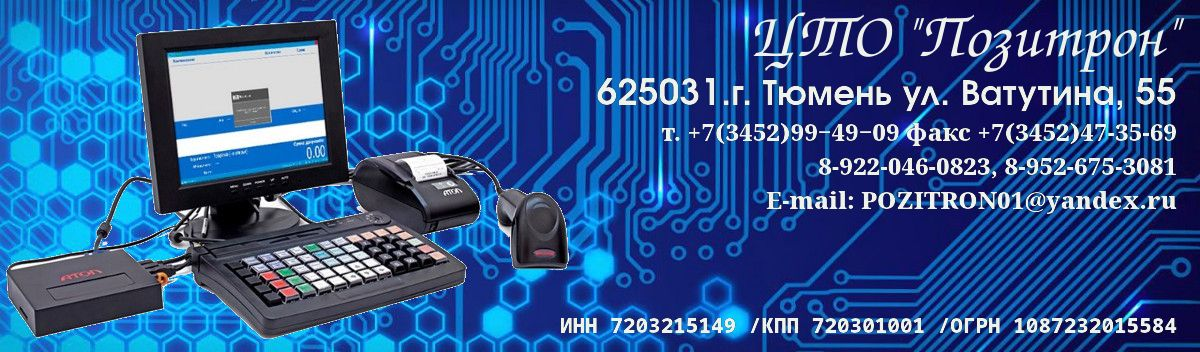
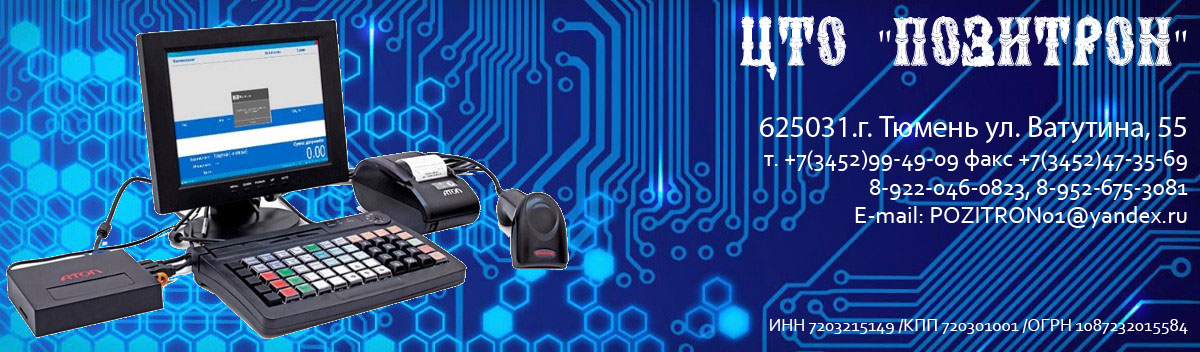
Upload

diff --git a/index.html b/index.html
@@ -33,7 +33,7 @@ ul.nav a { zoom: 1; }
       </div>
     </div>
 
-  <img src="image/ctopozitron.jpg" alt="ЦТО &quot;Позитрон&quot;" name="Insert_logo" width="100%" height="100%" usemap="#Insert_logoMap" id="Insert_logo" style="background: #6F7D94; display:block; color: #000;" />
+  <img src="image/ctopozitron03.jpg" alt="ЦТО &quot;Позитрон&quot;" name="Insert_logo" width="100%" height="100%" usemap="#Insert_logoMap" id="Insert_logo" style="background: #6F7D94; display:block; color: #000;" />
       <map name="Insert_logoMap">
         <area shape="circle" coords="0,0,0" href="index.html">
     </map>
@@ -153,20 +153,27 @@ document.querySelector('#calendar3').onchange = function Kalendar3() {
 	<div class="content" id="content1">
 	<div id="TabbedPanels1" class="TabbedPanels">
 		<ul class="TabbedPanelsTabGroup">
-			<li class="TabbedPanelsTab" tabindex="0">Прайс</li>
+			<li class="TabbedPanelsTab" tabindex="0">Главная</li>
 			<li class="TabbedPanelsTab" tabindex="0">Меркурий</li>
 			<li class="TabbedPanelsTab" tabindex="0">ЭВОТОР</li>
 			<li class="TabbedPanelsTab" tabindex="0">АТОЛ</li>
 			<li class="TabbedPanelsTab" tabindex="0">Пионер</li>
 			<li class="TabbedPanelsTab" tabindex="0">Разное</li>
 			<li class="TabbedPanelsTab" tabindex="0">Услуги</li>
-			<li class="TabbedPanelsTab" tabindex="0">На карте</li>
+			<li class="TabbedPanelsTab" tabindex="0">Контакты</li>
 </ul>
 	<div class="TabbedPanelsContentGroup">
 	<div class="TabbedPanelsContent">
-	
+<p>&nbsp;</p>
+        <h4>Кассовые аппараты он-лайн.
+        <br>Чекопечатающие машинки. <br>Обслуживание. Замена фискальных накопителей.
+        <br>Консультации обучение кассиров, регистрация, перерегистрация в налоговой инспекции.</h4>
+<p>&nbsp;</p>
+			<img src="image/evotor-5-0001-380x380.jpg" width="150" height="150" alt="Смарт-терминал ЭВОТОР 5" longdesc="Смарт-терминал ЭВОТОР 5" title="ЭВОТОР 5">
+			<img src="image/evotor-7.3_380x380.jpg" width="150" height="150" alt="ЭВОТОР 7.3 " longdesc="ЭВОТОР 7.3 " title="ЭВОТОР 7.3">
+
 	    <table width="100%" cellpadding="2" border="1">
-    <tbody>
+	    <tbody>
     <tr>
     <td style="text-align: center;" colspan="2"><strong>ЭВОТОР</strong></td>
     </tr>
@@ -205,6 +212,12 @@ document.querySelector('#calendar3').onchange = function Kalendar3() {
     <td>Эвотор 7.3 Алко с ФН 13 месяцев</td>
     <td align="center">37500р.</td>
     </tr>
+    </tbody>
+  </table>
+    <img src="image/atoll_90f.jpg" width="150" height="150" alt="АТОЛ 90Ф" longdesc="АТОЛ 90Ф" title="АТОЛ 90Ф">
+    <img src="image/atoll_30f.jpg" width="150" height="150" alt="АТОЛ 30Ф" title="АТОЛ 30Ф">
+    <table width="100%" cellpadding="2" border="1">
+    <tbody>
     <tr>
     <td style="text-align: center;" colspan="2"><strong>АТОЛ</strong></td>
     </tr>
@@ -231,6 +244,12 @@ document.querySelector('#calendar3').onchange = function Kalendar3() {
     <td align="center">35000/39900р.</td>
     </tr>
     <tr>
+    </tbody>
+  </table>
+  			<img src="image/mercury_115f.jpg" width="150" height="150" alt="Меркурий 115Ф" longdesc="Меркурий 115Ф" title="Меркурий 115Ф">
+  			<img src="image/mercury_185f.jpg" width="150" height="150" alt="Меркурий 185Ф" longdesc="Меркурий 185Ф" title="Меркурий 185Ф">
+  <table width="100%" cellpadding="2" border="1">
+    <tbody>
     <td style="text-align: center;" colspan="2"><strong>Меркурий</strong></td>
     </tr>
     <tr>
@@ -247,6 +266,13 @@ document.querySelector('#calendar3').onchange = function Kalendar3() {
     <td align="center">20500/25900р.</td>
     </tr>
     <tr>
+    </tbody>
+  </table>
+				<img src="image/SHTRICH-LIGT-01F.jpg" width="150" height="150" alt="">
+				<img src="image/SHTRICH-M-01F.jpg" width="150" height="150" alt="">
+				<img src="image/SHTRICH-ON-Line.jpg" width="150" height="150" alt="">
+  <table width="100%" cellpadding="2" border="1">
+    <tbody>
     <td style="text-align: center;" colspan="2"><strong>ШТРИХ-М</strong></td>
     </tr>
     <tr>
@@ -260,6 +286,12 @@ document.querySelector('#calendar3').onchange = function Kalendar3() {
     <td align="center">28000/33000р.</td>
     </tr>
     <tr>
+    </tbody>
+  </table>
+  <img src="image/pioneer-114f.jpg" width="150" height="150" alt="Пионер-114Ф " longdesc="Пионер-114Ф " title="Пионер-114Ф">
+
+  <table width="100%" cellpadding="2" border="1">
+    <tbody>
     <td style="text-align: center;" colspan="2"><strong>Пионер</strong></td>
     </tr>
     <tr>
@@ -267,11 +299,11 @@ document.querySelector('#calendar3').onchange = function Kalendar3() {
     <td align="center">17200/23000р.</td>
     </tr>
   </tbody>
-  </table>  
-  
+  </table>
+
   <p>&nbsp;</p>
-	
-	
+
+
 	</div>
 	<div class="TabbedPanelsContent">
 		<table width=100%>
@@ -279,8 +311,8 @@ document.querySelector('#calendar3').onchange = function Kalendar3() {
 			<h3>ККТ Меркурий 115Ф<br>с ФН 13/36 месяцев 12900/15900р.</h3>
 		<td width=50%>
 			<h3>ККТ Меркурий 185ф<br>с ФН 13/36 месяцев 14000/17900р.</h3></table>
-			<img src="image/меркурий115ф.jpg" alt="Меркурий 115Ф" align="left" width="50%" height="50%" title="Меркурий 115Ф" style="background: #6F7D94; display:block; color: #000;"  />
-			<img src="image/меркурий_185ф.jpg" alt="Меркурий 185Ф" align="right" width="50%" height="50%" title="Меркурий 185ф" style="background: #6F7D94; display:block; color: #000;" />
+			<img src="image/mercury_115f.jpg" alt="Меркурий 115Ф" align="left" width="50%" height="50%" title="Меркурий 115Ф" style="background: #6F7D94; display:block; color: #000;"  />
+			<img src="image/mercury_185f.jpg" alt="Меркурий 185Ф" align="right" width="50%" height="50%" title="Меркурий 185ф" style="background: #6F7D94; display:block; color: #000;" />
 
       <table width="100%" cellpadding="2" border="1">
       <tbody>
@@ -395,7 +427,7 @@ document.querySelector('#calendar3').onchange = function Kalendar3() {
 		<td width=50%>
 			<h3>ЭВОТОР 7.3 Алко с ФН 13 месяцев 37500р.<br>ЭВОТОР 7.3 Алко ЕНВД 31500р. </h3></table>
 			<img src="image/evotor-5-0001-380x380.jpg" alt="Смарт-терминал ЭВОТОР 5" align="left" width="50%" height="50%" title="Смарт-терминал ЭВОТОР 5" style="background: #6F7D94; display:block; color: #000;"  />
-			<img src="image/Эвотор 7.3_380x380.jpg" alt="ЭВОТОР 7.3" align="left" width="50%" height="50%" title="ЭВОТОР 7.3" style="background: #6F7D94; display:block; color: #000;"  />
+			<img src="image/evotor-7.3_380x380.jpg" alt="ЭВОТОР 7.3" align="left" width="50%" height="50%" title="ЭВОТОР 7.3" style="background: #6F7D94; display:block; color: #000;"  />
 	<table width="100%" cellpadding="2" border="1">
       <tbody>
       <tr>
@@ -478,8 +510,8 @@ document.querySelector('#calendar3').onchange = function Kalendar3() {
 			<h3>АТОЛ 90Ф с ФН 13/36 месяцев 18000/23500р.</h3>
 		<td width=50%>
 			<h3>АТОЛ 30Ф с ФН 13/36 месяцев 16400/19500р.</h3></table>
-			<img src="image/атол_90ф.jpg" alt="АТОЛ 90Ф" align="left" width="50%" height="50%" title="АТОЛ 90Ф" style="background: #6F7D94; display:block; color: #000;"  />
-			<img src="image/АТОЛ 30Ф.jpg" alt="АТОЛ 30Ф" align="left" width="50%" height="50%" title="АТОЛ 30Ф" style="background: #6F7D94; display:block; color: #000;"  />
+			<img src="image/atoll_90f.jpg" alt="АТОЛ 90Ф" align="left" width="50%" height="50%" title="АТОЛ 90Ф" style="background: #6F7D94; display:block; color: #000;"  />
+			<img src="image/atoll_30f.jpg" alt="АТОЛ 30Ф" align="left" width="50%" height="50%" title="АТОЛ 30Ф" style="background: #6F7D94; display:block; color: #000;"  />
 <table width="100%" cellpadding="2" border="1">
       <tbody>
       <tr>
@@ -543,8 +575,8 @@ document.querySelector('#calendar3').onchange = function Kalendar3() {
 
 </div>
 <div class="TabbedPanelsContent"> <h3>Пионер-114Ф с ФН 13/36 месяцев 17200/23000р.</h3>
-    <img src="image/ККМ Пионер-114Ф.jpg" alt="Пионер-114Ф" align="left" width="50%" height="50%" title="Пионер-114Ф" style="background: #6F7D94; display:block; color: #000;"  />
-  
+    <img src="image/pioneer-114f.jpg" alt="Пионер-114Ф" align="left" width="50%" height="50%" title="Пионер-114Ф" style="background: #6F7D94; display:block; color: #000;"  />
+
   <table width="50%" cellpadding="2" border="1">
       <tbody>
       <tr>
@@ -574,10 +606,10 @@ document.querySelector('#calendar3').onchange = function Kalendar3() {
       <td align="center">Есть</td>
 		</tbody>
       </table>
-  
+
   </div>
 
-	<div class="TabbedPanelsContent"> 
+	<div class="TabbedPanelsContent">
 		<table width=100%>
 		<tr><td width=40%>
 			<h3>Сканеры</h3>
@@ -586,9 +618,9 @@ document.querySelector('#calendar3').onchange = function Kalendar3() {
 			<td width=30%>
 			<h3>Денежные ящики</h3>
 		</table>
-			<img src="image/Сканер_0.jpg" alt="Сканер" align="left" width="33%" height="33%" title="Сканер" style="background: #6F7D94; display:block; color: #000;"  />
-			<img src="image/чековая лента 57,5 мм.jpg" alt="Чековая лента 57,5 мм" align="left" width="33%" height="33%" title="Чековая лента 57,5 мм" style="background: #6F7D94; display:block; color: #000;"  />
-			<img src="image/меркурий 100-1.jpg" alt="Меркурий 100-1" align="left" width="33%" height="33%" title="Меркурий 100-1" style="background: #6F7D94; display:block; color: #000;"  />
+			<img src="image/scanner.jpg" alt="Сканер" align="left" width="33%" height="33%" title="Сканер" style="background: #6F7D94; display:block; color: #000;"  />
+			<img src="image/check tape 57,5 mm.jpg" alt="Чековая лента 57,5 мм" align="left" width="33%" height="33%" title="Чековая лента 57,5 мм" style="background: #6F7D94; display:block; color: #000;"  />
+			<img src="image/mercury_100-1.jpg" alt="Меркурий 100-1" align="left" width="33%" height="33%" title="Меркурий 100-1" style="background: #6F7D94; display:block; color: #000;"  />
 </div>
 	<div class="TabbedPanelsContent">
     <table width="100%" cellpadding="2" border="1">
@@ -623,32 +655,33 @@ document.querySelector('#calendar3').onchange = function Kalendar3() {
     <td align="center">1000р.</td>
     </tr>
   </tbody>
-  </table>	
+  </table>
 </div>
-	<div class="TabbedPanelsContent"> <h2>На карте</h2>
+	<div class="TabbedPanelsContent">
+    <p>&nbsp;</p>
+    <h4>625031.г. Тюмень ул. Ватутина, 55
+      <br>т. +7(3452) 99-49-09
+      <br>факс +7(3452) 47-35-69
+      <br>8-922-046-0823, 8-952-675-3081
+        <br>E-mail: <a href="mailto:pozitron01@yandex.ru"><span style="color:navy">pozitron01@yandex.ru</span></a><h4>
 			<a class="dg-widget-link" href="http://2gis.ru/tyumen/firm/1830115629690603/center/65.58747768402101,57.18826242510559/zoom/16?utm_medium=widget-source&utm_campaign=firmsonmap&utm_source=bigMap">Посмотреть на карте Тюмени</a><div class="dg-widget-link"><a href="http://2gis.ru/tyumen/center/65.587965,57.187168/zoom/16/routeTab/rsType/bus/to/65.587965,57.187168╎Позитрон, ООО, торгово-сервисная компания?utm_medium=widget-source&utm_campaign=firmsonmap&utm_source=route">Найти проезд до Позитрон, ООО, торгово-сервисная компания</a></div><script charset="utf-8" src="https://widgets.2gis.com/js/DGWidgetLoader.js"></script><script charset="utf-8">new DGWidgetLoader({"width":700,"height":450,"borderColor":"#a3a3a3","pos":{"lat":57.18826242510559,"lon":65.58747768402101,"zoom":16},"opt":{"city":"tyumen"},"org":[{"id":"1830115629690603"}]});</script><noscript style="color:#c00;font-size:16px;font-weight:bold;">Виджет карты использует JavaScript. Включите его в настройках вашего браузера.</noscript>
+
+			</div>
+		</div>
+	</div>
 </div>
-              <!--[if !IE]>-->
-            </object>
-            <!--<![endif]-->
-          </object>
-        </div>
-</div>
-    </div>
   <p>&nbsp;</p>
   <p>&nbsp;</p>
 
  <!-- end .content --></div>
   <div class="footer">
-    <p>©2018 | E-mail: pozitron01@yandex.ru ИНН 7203215149 / КПП 720301001 / ОГРН 1087232015584</p>
+    <p>©2018 | E-mail: <a href="mailto:pozitron01@yandex.ru"><span style="color:navy">pozitron01@yandex.ru</span></a> ИНН 7203215149 / КПП 720301001 / ОГРН 1087232015584</p>
   <!-- end .footer --></div>
-<!-- end .container --></div>
 <script type="text/javascript">
 var CollapsiblePanel1 = new Spry.Widget.CollapsiblePanel("CollapsiblePanel1", {contentIsOpen:false});
 
 
 var TabbedPanels1 = new Spry.Widget.TabbedPanels("TabbedPanels1");
-swfobject.registerObject("FlashID");
 var MenuBar1 = new Spry.Widget.MenuBar("MenuBar1", {imgDown:"SpryAssets/SpryMenuBarDownHover.gif", imgRight:"SpryAssets/SpryMenuBarRightHover.gif"});
 </script>
 </body>
